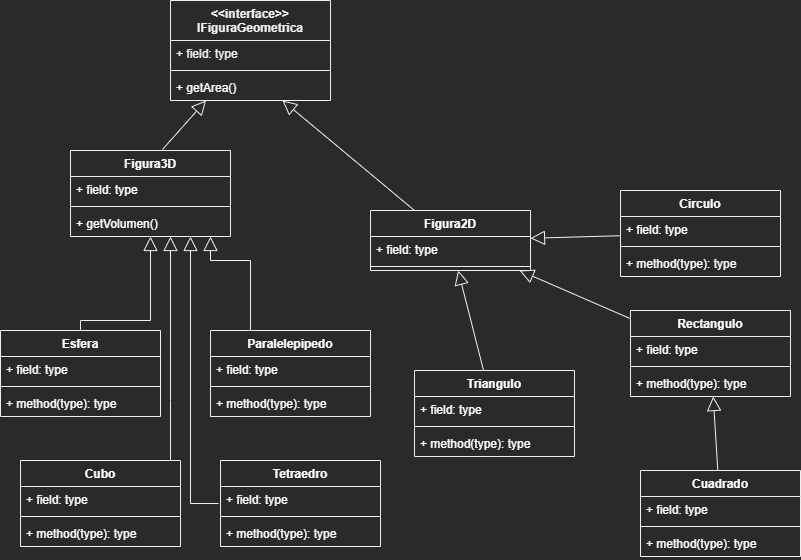
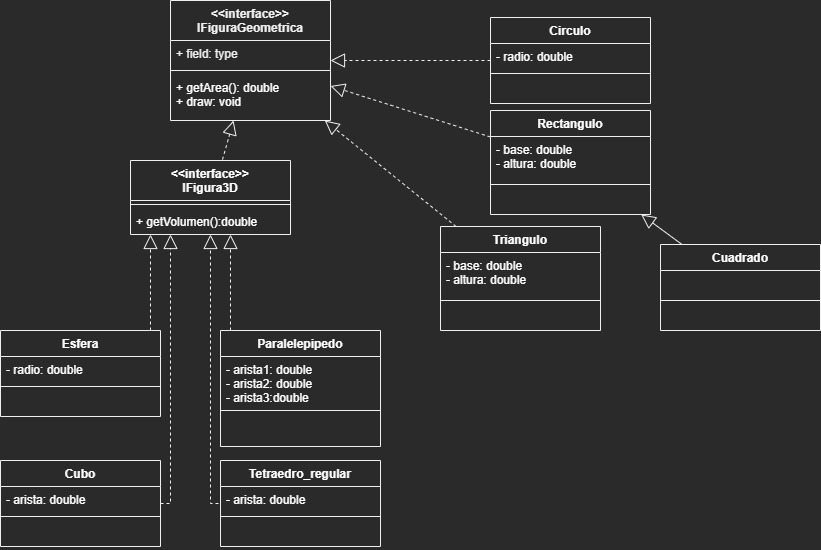
Matematica

diff --git a/Herencia, Polimorfismo e Interfaces/Ej2Matematica/src/ProgramaPrinc.java b/Herencia, Polimorfismo e Interfaces/Ej2Matematica/src/ProgramaPrinc.java
@@ -1,0 +1,53 @@
+import java.util.ArrayList;
+import java.util.Scanner;
+public class ProgramaPrinc {
+	 	private ArrayList<IFigura3D> figuras3d;
+	 	private ArrayList<IFiguraGeometrica> figuras2d;
+	public static void main(String[] args) {
+		String ss="";
+		while (!(ss.equals("0"))) {
+			System.out.println("MENU(ingrese 0 para salir)");
+			System.out.println("ANDAN CIRCULO, TRIANGULO, ESFERA, CUBO");
+			System.out.println("1-círculo");
+			System.out.println("2-rectángulo");
+			System.out.println("3-cuadrado");
+			System.out.println("4-triángulo");
+			System.out.println("5-esfera");
+			System.out.println("6-paralelepipedo");
+			System.out.println("7-cubo");
+			System.out.println("8-tetraedro (regular)");
+			Scanner opcion=new Scanner(System.in);
+			 ss =opcion.nextLine();
+			switch(Integer.valueOf(ss)) {  		
+			case 1:
+				System.out.println("Ingrese longitud de radio:");
+				Scanner radio=new Scanner(System.in);
+				IFiguraGeometrica figu=new Circulo(Integer.valueOf(radio.nextLine()));
+				System.out.println("Area:"+figu.getArea());
+				break;
+			case 4:
+				System.out.println("Ingrese longitud de base:");
+				Scanner base=new Scanner(System.in);
+				String sBas =base.nextLine();
+				System.out.println("Ingrese longitud de altura:");
+				Scanner altura=new Scanner(System.in);
+				IFiguraGeometrica figu3=new Triangulo(Integer.valueOf(sBas),Integer.valueOf(altura.nextLine()));
+				System.out.println("Area:"+figu3.getArea());
+				break;
+			case 5:
+				System.out.println("Ingrese longitud de radio:");
+				Scanner radio1=new Scanner(System.in);
+				IFigura3D figu1=new Esfera(Integer.valueOf(radio1.nextLine()));
+				System.out.println("Area:"+figu1.getArea());
+				System.out.println("Volumen:"+figu1.getVolumen());
+				break;
+			case 7:
+				System.out.println("Ingrese longitud de arista:");
+				Scanner arista=new Scanner(System.in);
+				IFigura3D figu2=new Cubo(Integer.valueOf(arista.nextLine()));
+				System.out.println("Area:"+figu2.getArea());
+				System.out.println("Volumen:"+figu2.getVolumen());
+	}
+		}
+}
+	}

diff --git a/Herencia, Polimorfismo e Interfaces/Ej2Matematica/src/Paralelepipedo.java b/Herencia, Polimorfismo e Interfaces/Ej2Matematica/src/Paralelepipedo.java
@@ -1,0 +1,21 @@
+
+public class Paralelepipedo implements IFigura3D{
+	private double arista1;
+	private double arista2;
+	private double arista3;
+	public Paralelepipedo(double arista1,double arista2,double arista3) {
+		this. arista1= arista1;
+		this. arista2= arista2;
+		this. arista3= arista3;
+	}
+	public void draw() {
+		System.out.println("Se dibujó el paralelepipedo");
+	}
+	public double getArea() {
+		return 2 * (arista1 * arista2 + arista1 * arista3 + arista2 * arista3);
+	}
+	public double getVolumen() {
+		return arista1 * arista2 * arista3;
+	}
+
+}

diff --git a/Herencia, Polimorfismo e Interfaces/Ej2Matematica/src/Tetraedro_regular.java b/Herencia, Polimorfismo e Interfaces/Ej2Matematica/src/Tetraedro_regular.java
@@ -1,0 +1,18 @@
+
+public class Tetraedro_regular implements IFigura3D{
+		private double arista;
+		
+	public Tetraedro_regular(double arista) {
+		this.arista=arista;
+	}
+	public void draw() {
+		System.out.println("Se dibujó el tetraedro");
+	}
+	public double getArea() {
+		return Math.pow(arista,2) * Math.sqrt(3);
+	}
+	public double getVolumen() {
+		return Math.pow(arista,3) * (Math.sqrt(3)/12);
+	}
+
+}

diff --git a/Herencia, Polimorfismo e Interfaces/Ej2Matematica/src/Esfera.java b/Herencia, Polimorfismo e Interfaces/Ej2Matematica/src/Esfera.java
@@ -1,0 +1,18 @@
+
+public class Esfera implements IFigura3D{
+		private double radio;
+	public Esfera(double radio) {
+		this.radio=radio;
+	}
+	public void draw() {
+		System.out.println("Dibuja esfera");
+		
+	}
+	public double getArea() {
+		return 4 *Math.PI *(Math.pow( radio, 2));
+	}
+	public double getVolumen() {
+		return Float.valueOf(4)/3 * (Math.PI)* (Math.pow( radio, 3)) ;
+	}
+
+}

diff --git a/Herencia, Polimorfismo e Interfaces/Ej2Matematica/src/Cubo.java b/Herencia, Polimorfismo e Interfaces/Ej2Matematica/src/Cubo.java
@@ -1,0 +1,18 @@
+
+public class Cubo implements IFigura3D{
+		private double arista;
+		
+	public Cubo(double arista) {
+		this.arista=arista;
+	}
+	public void draw() {
+		System.out.println("Se dibujó el cubo");
+	}
+	public double getArea() {
+		return 6 * (Math.pow(arista,2));
+	}
+	public double getVolumen() {
+		return (Math.pow(arista,3));
+	}
+
+}

diff --git a/Herencia, Polimorfismo e Interfaces/Ej2Matematica/src/Triangulo.java b/Herencia, Polimorfismo e Interfaces/Ej2Matematica/src/Triangulo.java
@@ -1,0 +1,16 @@
+
+public class Triangulo implements IFiguraGeometrica{
+		private double altura;
+		private double base;
+	public Triangulo(double base,double altura) {
+		this.base=base;
+		this.altura=altura;
+	}
+	public void draw() {
+		System.out.println("Dibuja triángulo");
+	}
+	public double getArea() {
+		return (altura*base)/2;
+	}
+
+}

diff --git a/Herencia, Polimorfismo e Interfaces/Ej2Matematica/src/Rectangulo.java b/Herencia, Polimorfismo e Interfaces/Ej2Matematica/src/Rectangulo.java
@@ -1,0 +1,18 @@
+public class Rectangulo  implements IFiguraGeometrica{
+	
+	int largo, ancho;
+	
+	public Rectangulo(int largo, int ancho) {
+		this.largo = largo;
+		this.ancho = ancho;
+	}
+	public void draw() {
+		System.out.println("Dibuja rectangulo");
+	}
+	
+	public double getArea() {
+		return (double) largo * ancho;
+	}
+
+}
+

diff --git a/Herencia, Polimorfismo e Interfaces/Ej2Matematica/src/Circulo.java b/Herencia, Polimorfismo e Interfaces/Ej2Matematica/src/Circulo.java
@@ -1,0 +1,14 @@
+
+public class Circulo implements IFiguraGeometrica{
+		private double radio;
+	public Circulo(double radio) {
+		this.radio=radio;
+	}
+	public void draw() {
+		System.out.println("Dibuja circulo");
+	}
+	public double getArea() {
+		return Math.PI * (Math.pow(radio,2));
+	}
+
+}

diff --git a/Herencia, Polimorfismo e Interfaces/Ej2Matematica/src/Cuadrado.java b/Herencia, Polimorfismo e Interfaces/Ej2Matematica/src/Cuadrado.java
@@ -1,0 +1,15 @@
+
+public class Cuadrado extends Rectangulo {
+
+	public Cuadrado(int lado) {
+		super(lado, lado);
+	}
+	public void draw() {
+		System.out.println("Dibuja cuadrado");
+	}
+	
+	public double getArea() {
+		return (double) largo * ancho;
+	}
+
+}

diff --git a/Herencia, Polimorfismo e Interfaces/Ej2Matematica/src/IFigura3D.java b/Herencia, Polimorfismo e Interfaces/Ej2Matematica/src/IFigura3D.java
@@ -1,0 +1,5 @@
+
+public interface  IFigura3D extends IFiguraGeometrica{
+
+	public double getVolumen();
+}

diff --git a/Herencia, Polimorfismo e Interfaces/Ej2Matematica/src/IFiguraGeometrica.java b/Herencia, Polimorfismo e Interfaces/Ej2Matematica/src/IFiguraGeometrica.java
@@ -1,0 +1,5 @@
+
+public interface IFiguraGeometrica {
+	void draw();
+	public double getArea();
+}
